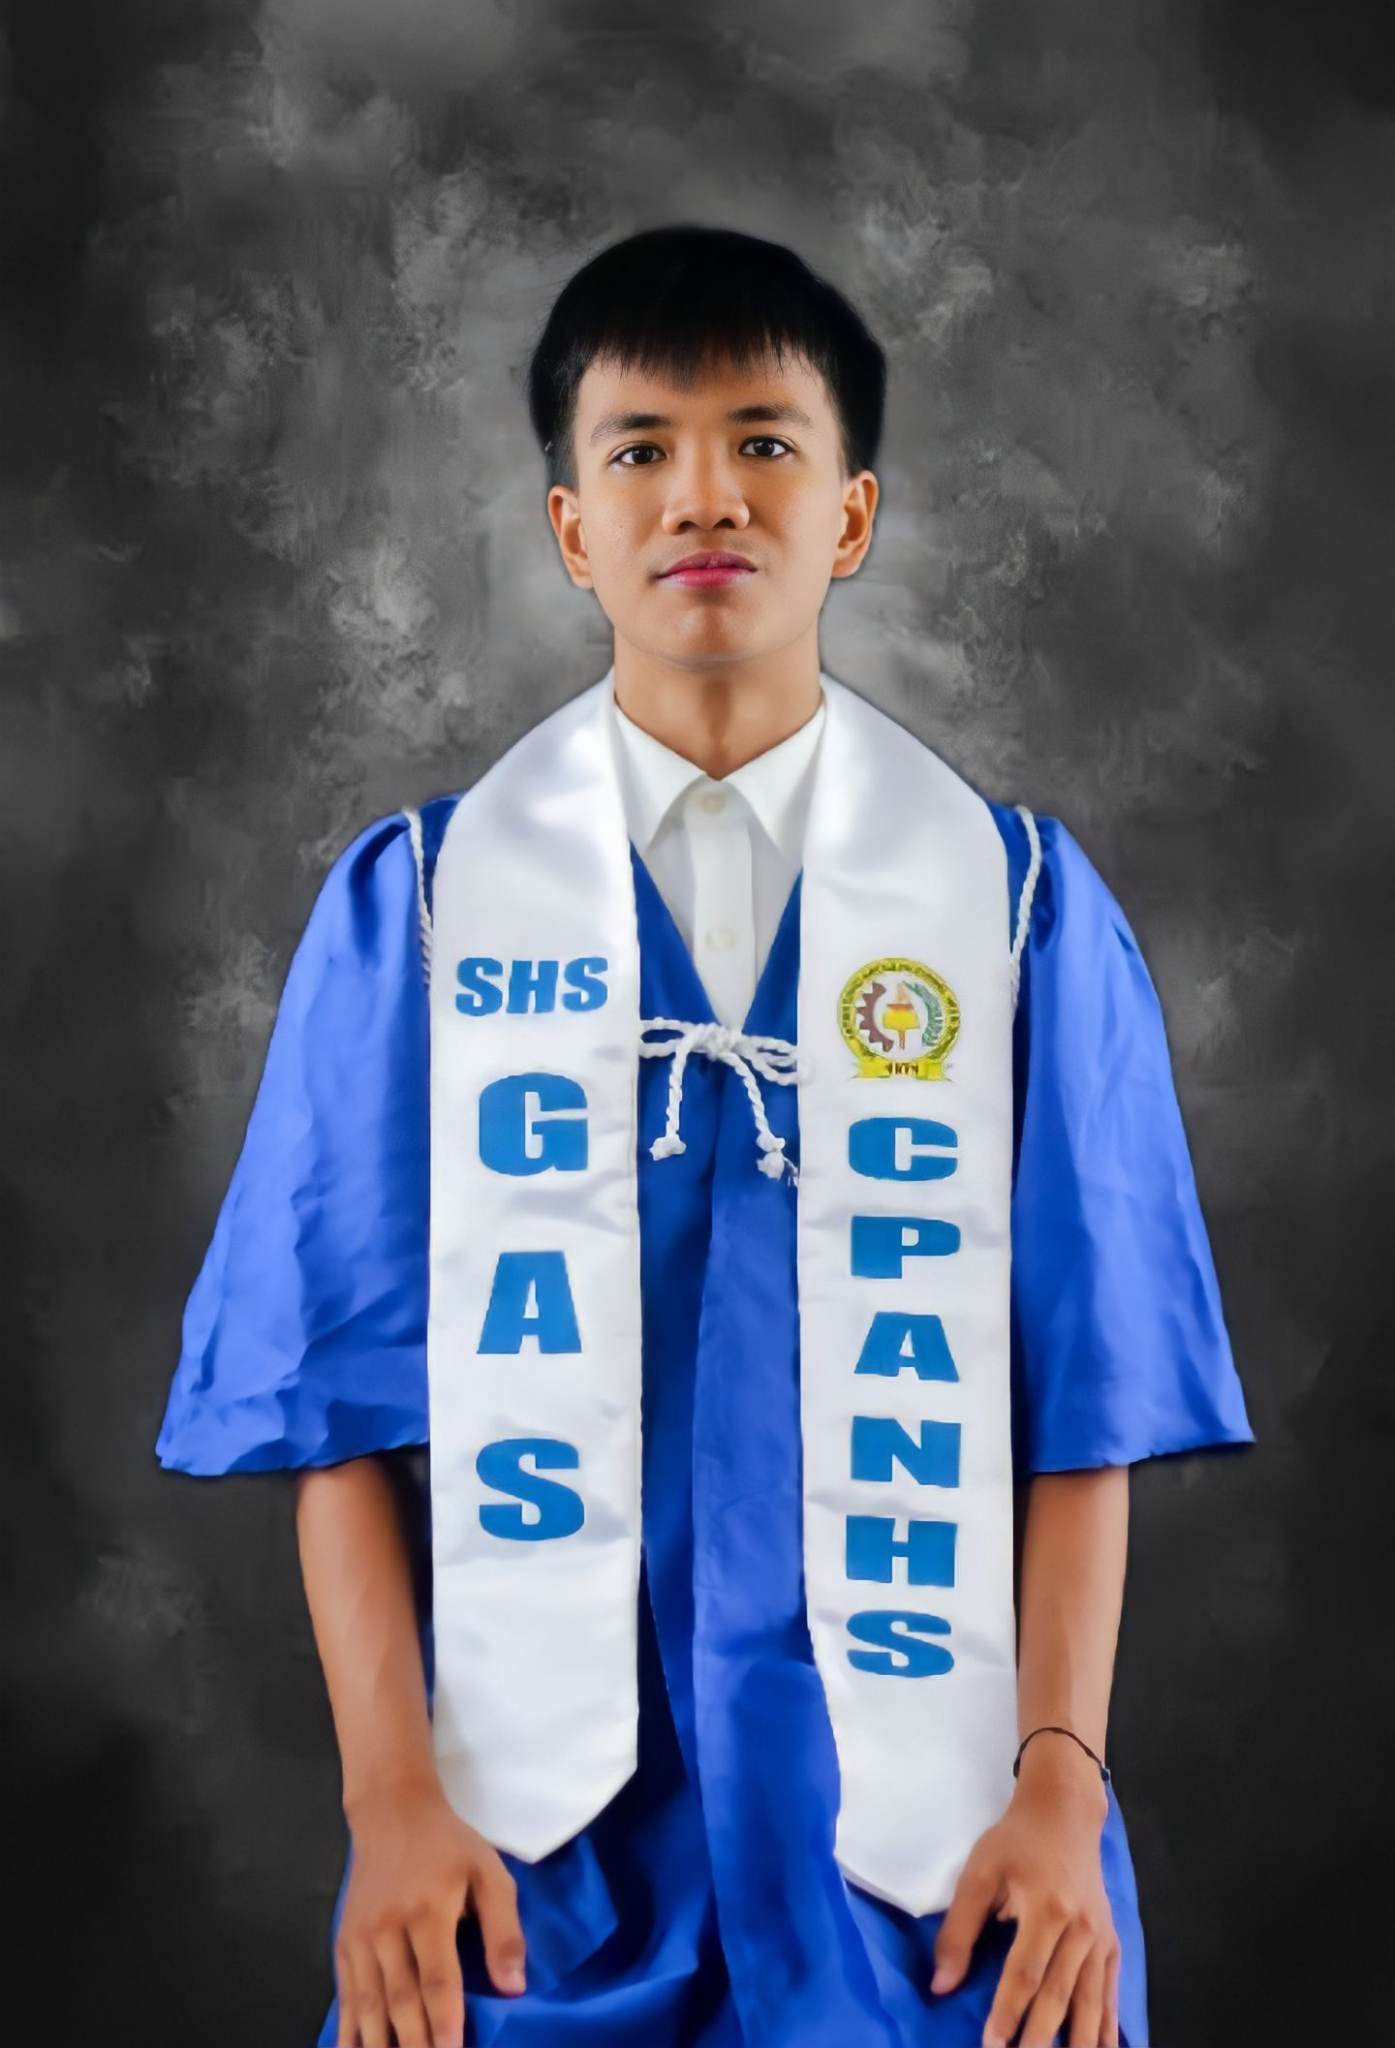
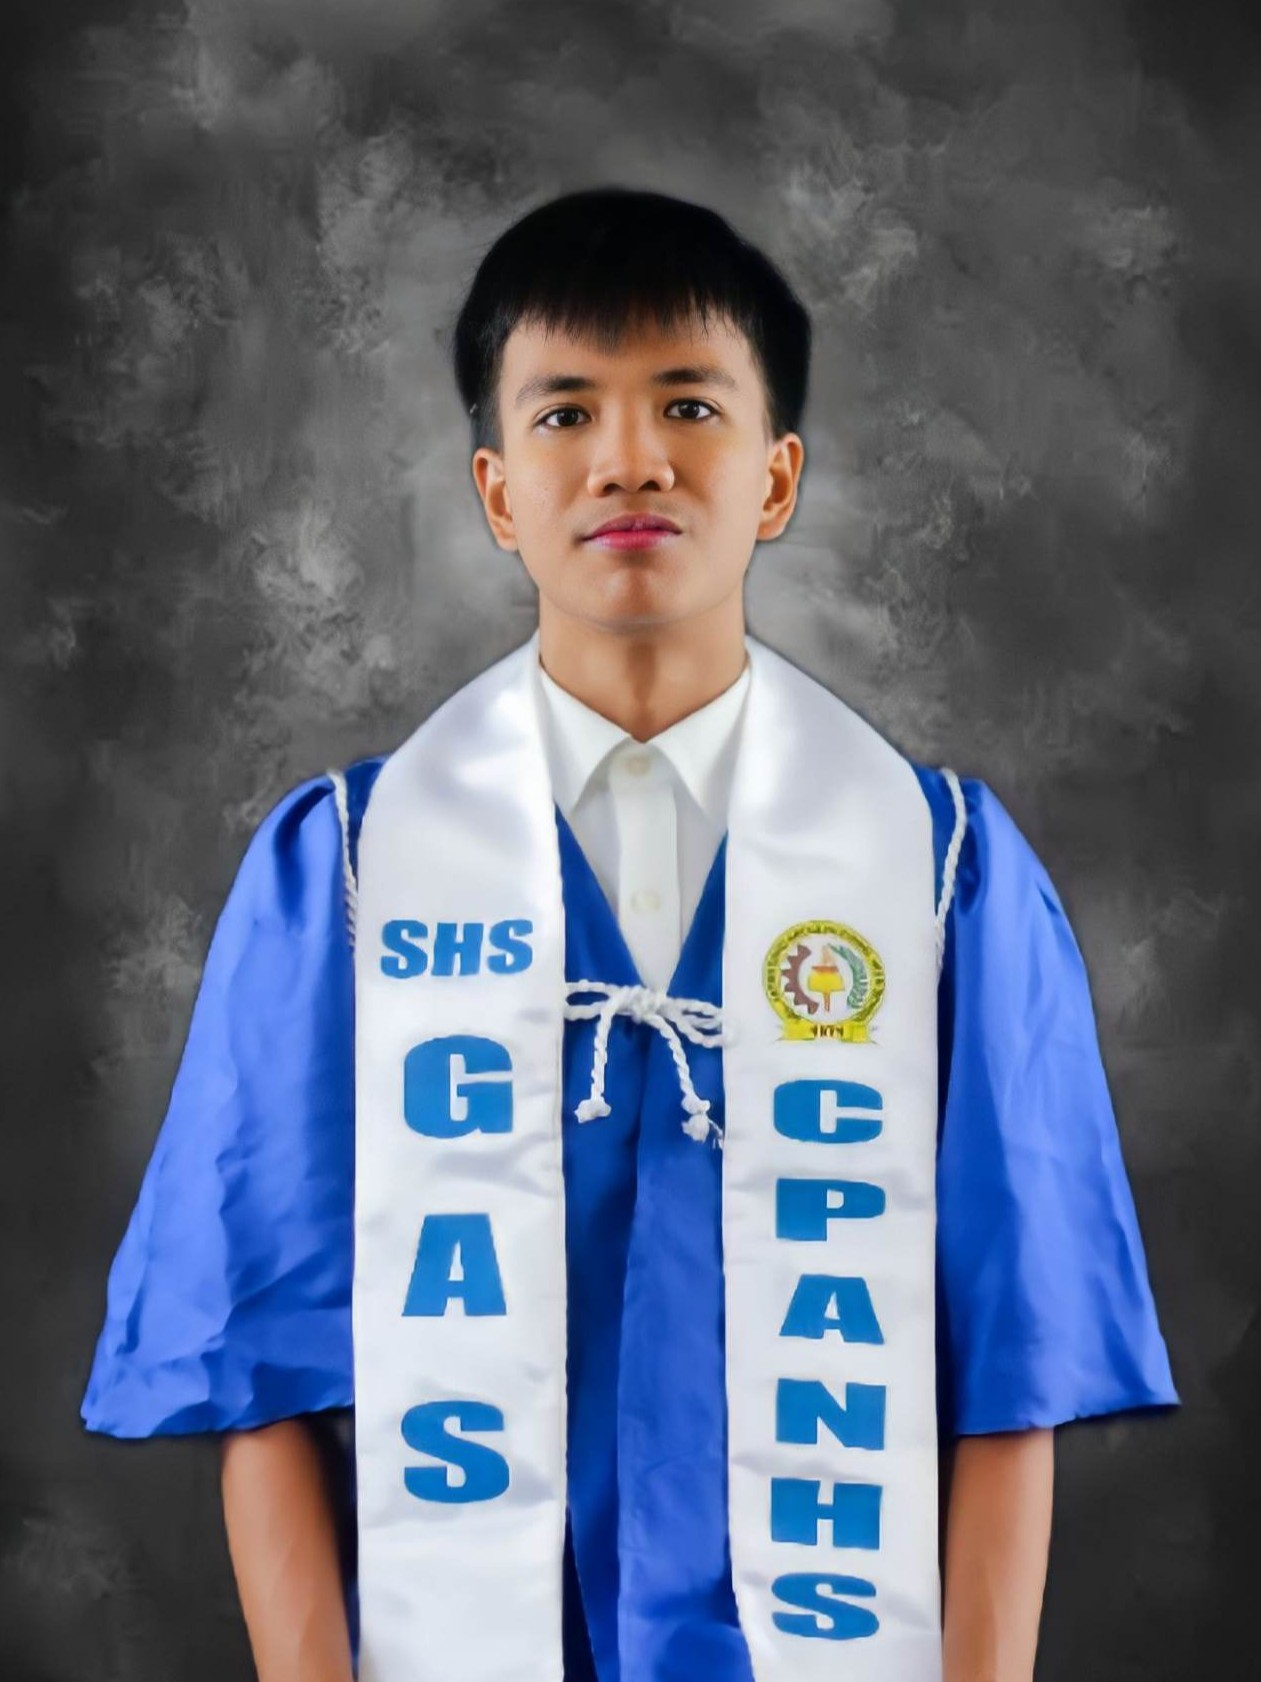
replaced my image in the hero section

diff --git a/components/Hero/Hero.js b/components/Hero/Hero.js
@@ -6,7 +6,7 @@ import Profiles from "../Profiles/Profiles";
 import styles from "./Hero.module.scss";
 import { MENULINKS, TYPED_STRINGS } from "../../constants";
 import Image from "next/image";
-import profilePicture from "public/profile/prof_image.png";
+import profilePicture from "public/profile/profile.jpeg";
 
 const options = {
   strings: TYPED_STRINGS,
